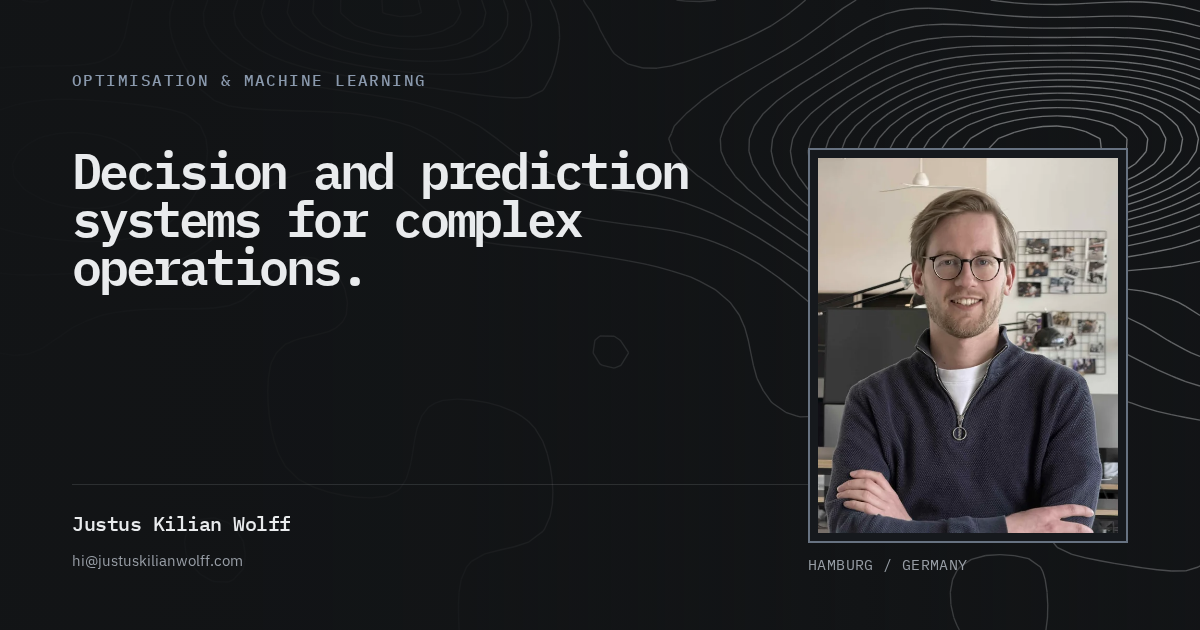
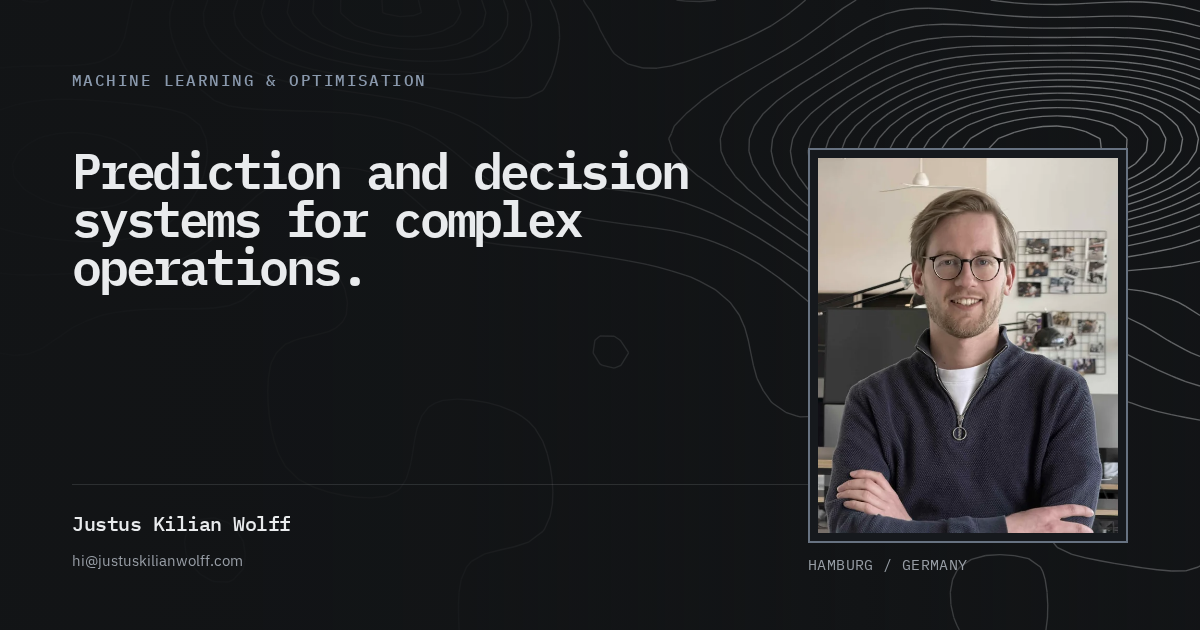
Update portfolio messaging and social metadata

Changed region(s): [[0.0617, 0.2413, 0.5242, 0.3016], [0.0617, 0.1206, 0.37, 0.1508]]

diff --git a/src/routes/+page.svelte b/src/routes/+page.svelte
@@ -52,30 +52,23 @@
 </script>
 
 <svelte:head>
-	<title>Justus Wolff | Optimisation & ML</title>
+	<title>Justus Wolff | Machine Learning & Optimisation</title>
 	<meta
 		name="description"
-		content="Independent optimisation and machine learning engineer building forecasting, planning, scheduling, and decision systems for complex operations."
+		content="Independent machine-learning and optimisation engineer building forecasting, planning, scheduling, and operational decision systems."
 	/>
 	<link rel="canonical" href="https://justuskilianwolff.com/" />
-	<meta property="og:type" content="website" />
-	<meta property="og:title" content="Decision and prediction systems for complex operations" />
+	<meta property="og:title" content="Prediction and decision systems for complex operations" />
 	<meta
 		property="og:description"
-		content="Optimisation and machine learning for forecasting, planning, and operational decision-making."
+		content="Machine learning and optimisation for forecasting, planning, and operational decision-making."
 	/>
 	<meta property="og:url" content="https://justuskilianwolff.com/" />
-	<meta property="og:image" content="https://justuskilianwolff.com/og-image.png" />
-	<meta property="og:image:width" content="1200" />
-	<meta property="og:image:height" content="630" />
-	<meta property="og:image:alt" content="Justus Kilian Wolff — Optimisation and machine learning" />
-	<meta name="twitter:card" content="summary_large_image" />
-	<meta name="twitter:title" content="Decision and prediction systems for complex operations" />
+	<meta name="twitter:title" content="Prediction and decision systems for complex operations" />
 	<meta
 		name="twitter:description"
-		content="Optimisation and machine learning for forecasting, planning, and operational decision-making."
+		content="Machine learning and optimisation for forecasting, planning, and operational decision-making."
 	/>
-	<meta name="twitter:image" content="https://justuskilianwolff.com/og-image.png" />
 </svelte:head>
 
 <!-- Hero -->
@@ -101,14 +94,14 @@
 		class="relative z-10 mx-auto flex min-h-svh max-w-[90rem] flex-col justify-center px-5 py-16 sm:px-8 sm:py-20 lg:py-24"
 	>
 		<div class="max-w-full translate-y-[5vh]">
-			<p class="eyebrow">Optimisation & machine learning</p>
+			<p class="eyebrow">Machine learning & optimisation</p>
 			<h1
 				class="mt-6 max-w-full font-mono text-[clamp(3rem,6vw,5.55rem)] leading-[0.94] font-semibold tracking-[-0.065em]"
 			>
-				Decision and prediction systems for complex operations.
+				Prediction and decision systems for complex operations.
 			</h1>
 			<p class="text-muted mt-8 max-w-2xl text-lg leading-8 sm:text-xl sm:leading-9">
-				I use optimisation and machine learning to turn operational data, objectives, and
+				I use machine learning and optimisation to turn operational data, objectives, and
 				constraints into models and systems that teams can use with confidence.
 			</p>
 			<div class="mt-9 flex flex-wrap gap-3">
@@ -116,7 +109,7 @@
 					class="button-primary px-5 py-3"
 					href="mailto:hi@justuskilianwolff.com?subject=Project%20enquiry"
 				>
-					Discuss a project
+					Let's build something
 				</a>
 				<a class="button-secondary px-5 py-3" href="#profile">About me</a>
 			</div>
@@ -250,10 +243,10 @@
 				</p>
 			</div>
 			<div class="mt-10 lg:mt-0">
-				<h2 class="section-heading">Have a prediction or decision system worth improving?</h2>
+				<h2 class="section-heading">Have a prediction or decision system worth building?</h2>
 				<p class="text-muted mt-6 max-w-2xl text-lg leading-8">
 					Tell me what you are trying to forecast, plan, or improve. You do not need to know whether
-					machine learning or optimisation is the right approach, because we’ll figure it out
+					machine learning or optimisation is the right approach, because we'll figure it out
 					together :)
 				</p>
 				<a

diff --git a/src/routes/impressum/+page.svelte b/src/routes/impressum/+page.svelte
@@ -2,24 +2,17 @@
 	<title>Impressum & Datenschutz | Justus Kilian Wolff</title>
 	<meta name="description" content="Impressum und Datenschutzerklärung von Justus Kilian Wolff." />
 	<link rel="canonical" href="https://justuskilianwolff.com/impressum" />
-	<meta property="og:type" content="website" />
 	<meta property="og:title" content="Impressum & Datenschutz | Justus Kilian Wolff" />
 	<meta
 		property="og:description"
 		content="Impressum und Datenschutzerklärung von Justus Kilian Wolff."
 	/>
 	<meta property="og:url" content="https://justuskilianwolff.com/impressum" />
-	<meta property="og:image" content="https://justuskilianwolff.com/og-image.png" />
-	<meta property="og:image:width" content="1200" />
-	<meta property="og:image:height" content="630" />
-	<meta property="og:image:alt" content="Justus Kilian Wolff — Optimisation and machine learning" />
-	<meta name="twitter:card" content="summary_large_image" />
 	<meta name="twitter:title" content="Impressum & Datenschutz | Justus Kilian Wolff" />
 	<meta
 		name="twitter:description"
 		content="Impressum und Datenschutzerklärung von Justus Kilian Wolff."
 	/>
-	<meta name="twitter:image" content="https://justuskilianwolff.com/og-image.png" />
 </svelte:head>
 
 <div class="mx-auto max-w-5xl px-5 py-20 sm:px-8 sm:py-28">

diff --git a/src/routes/education/+page.svelte b/src/routes/education/+page.svelte
@@ -15,19 +15,12 @@
 		property="og:description"
 		content="Academic background in operational research, data science, industrial engineering, statistics, and machine learning."
 	/>
-	<meta property="og:type" content="website" />
 	<meta property="og:url" content="https://justuskilianwolff.com/education" />
-	<meta property="og:image" content="https://justuskilianwolff.com/og-image.png" />
-	<meta property="og:image:width" content="1200" />
-	<meta property="og:image:height" content="630" />
-	<meta property="og:image:alt" content="Justus Kilian Wolff — Optimisation and machine learning" />
-	<meta name="twitter:card" content="summary_large_image" />
 	<meta name="twitter:title" content="Education | Justus Kilian Wolff" />
 	<meta
 		name="twitter:description"
 		content="Academic background in operational research, data science, industrial engineering, statistics, and machine learning."
 	/>
-	<meta name="twitter:image" content="https://justuskilianwolff.com/og-image.png" />
 </svelte:head>
 
 <div class="mx-auto max-w-5xl px-5 py-20 sm:px-8 sm:py-28">

diff --git a/src/routes/experience/+page.svelte b/src/routes/experience/+page.svelte
@@ -23,19 +23,12 @@
 		property="og:description"
 		content="Professional experience, operations research, publications, ventures, and independent projects."
 	/>
-	<meta property="og:type" content="website" />
 	<meta property="og:url" content="https://justuskilianwolff.com/experience" />
-	<meta property="og:image" content="https://justuskilianwolff.com/og-image.png" />
-	<meta property="og:image:width" content="1200" />
-	<meta property="og:image:height" content="630" />
-	<meta property="og:image:alt" content="Justus Kilian Wolff — Optimisation and machine learning" />
-	<meta name="twitter:card" content="summary_large_image" />
 	<meta name="twitter:title" content="Experience | Justus Kilian Wolff" />
 	<meta
 		name="twitter:description"
 		content="Professional experience, operations research, publications, ventures, and independent projects."
 	/>
-	<meta name="twitter:image" content="https://justuskilianwolff.com/og-image.png" />
 </svelte:head>
 
 <div class="mx-auto max-w-5xl px-5 py-20 sm:px-8 sm:py-28">

diff --git a/src/routes/+layout.svelte b/src/routes/+layout.svelte
@@ -6,6 +6,16 @@
 	let { children } = $props();
 </script>
 
+<svelte:head>
+	<meta property="og:type" content="website" />
+	<meta property="og:image" content="https://justuskilianwolff.com/og-image.png" />
+	<meta property="og:image:width" content="1200" />
+	<meta property="og:image:height" content="630" />
+	<meta property="og:image:alt" content="Justus Kilian Wolff — Machine learning and optimisation" />
+	<meta name="twitter:card" content="summary_large_image" />
+	<meta name="twitter:image" content="https://justuskilianwolff.com/og-image.png" />
+</svelte:head>
+
 <a
 	href="#main-content"
 	class="bg-accent text-accent-ink sr-only fixed top-3 left-3 z-[100] px-3 py-2 text-sm font-medium focus:not-sr-only"

diff --git a/src/lib/OgCard.svelte b/src/lib/OgCard.svelte
@@ -20,13 +20,13 @@
 
 	<div class="relative z-10 flex h-full flex-col px-[72px] pt-[68px] pb-[58px]">
 		<p class="text-accent font-mono text-[16px] font-medium tracking-[0.09em] uppercase">
-			Optimisation & machine learning
+			Machine learning & optimisation
 		</p>
 
 		<h1
 			class="mt-[54px] max-w-[690px] font-mono text-[50px] leading-[0.96] font-semibold tracking-[-0.065em]"
 		>
-			Decision and prediction<br />systems for complex<br />operations.
+			Prediction and decision<br />systems for complex<br />operations.
 		</h1>
 
 		<div class="border-border mt-auto flex items-end justify-between border-t pt-[24px]">
